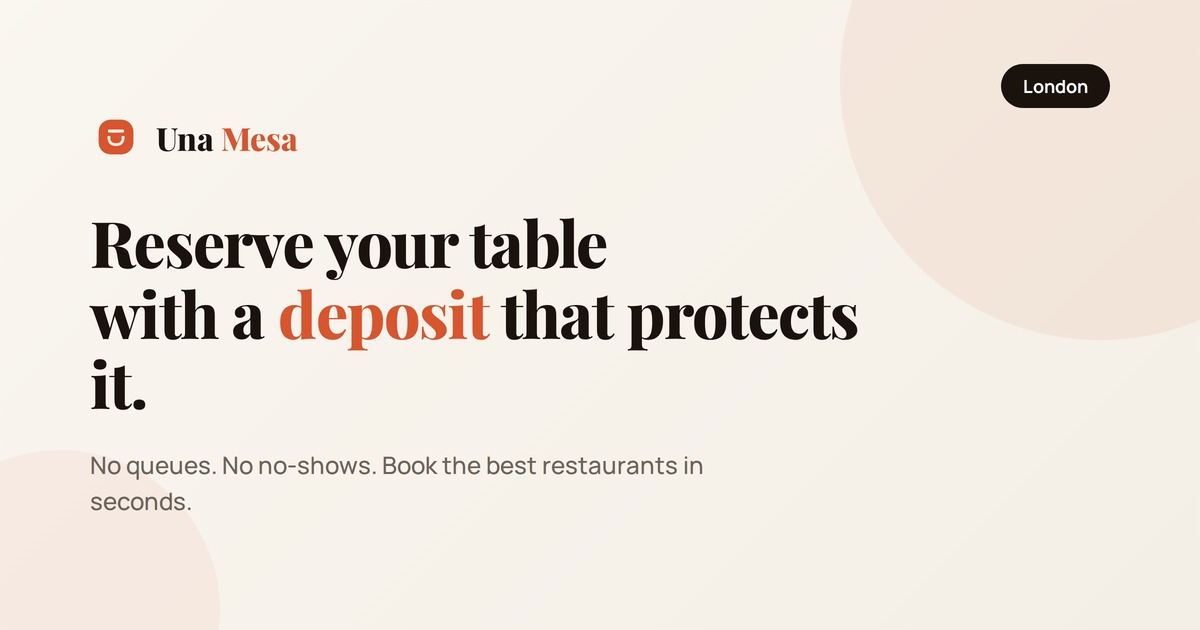
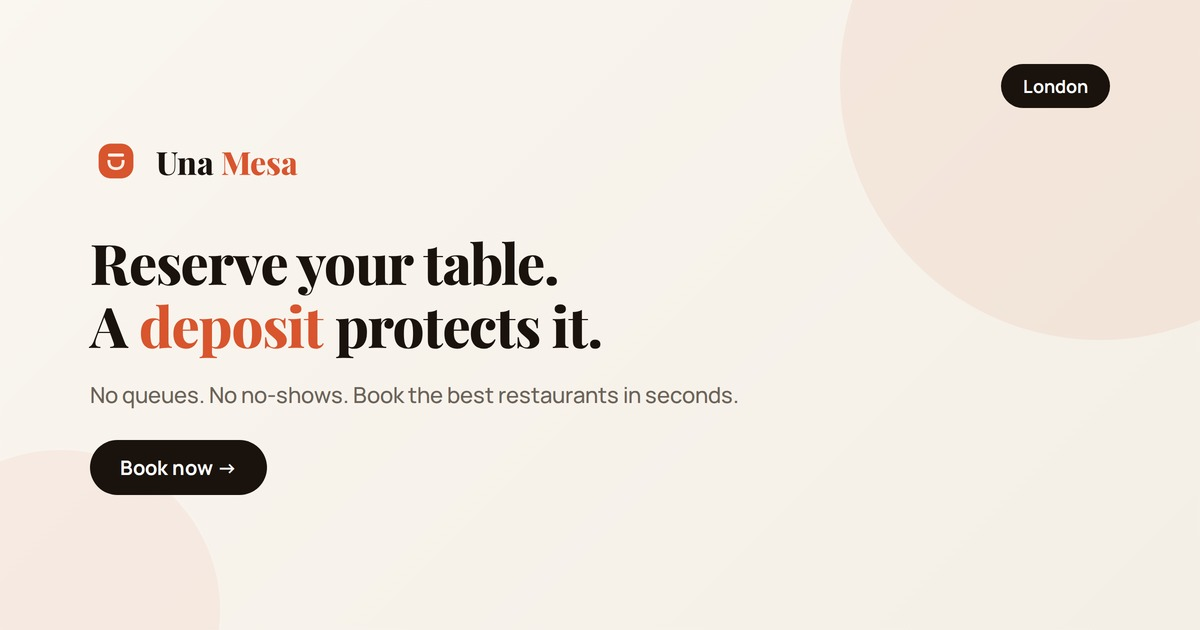
fix: add a call-to-action to the OG image, lengthen the title to the recommended 50-60 characters

Changed region(s): [[0.0617, 0.3317, 0.74, 0.6635], [0.0617, 0.6937, 0.5858, 0.8143], [0.0617, 0.181, 0.2467, 0.3016]]

diff --git a/apps/app/api/index.js b/apps/app/api/index.js
@@ -13,12 +13,12 @@ const path = require('path')
 
 const SEO = {
   en: {
-    title: 'Una Mesa — Reserve your table',
+    title: "Una Mesa — Reserve Your Table at London's Best Restaurants",
     description: 'Book a table at the best restaurants with a refundable deposit — no queues, no no-shows. London.',
     domain: 'app.unamesa.co.uk',
   },
   es: {
-    title: 'Una Mesa — Reserva tu mesa',
+    title: 'Una Mesa — Reserva tu Mesa en los Mejores Restaurantes',
     description: 'Reserva mesa en los mejores restaurantes con un depósito reembolsable — sin colas de espera, sin no-shows. Madrid.',
     domain: 'app.unamesa.co',
   },
